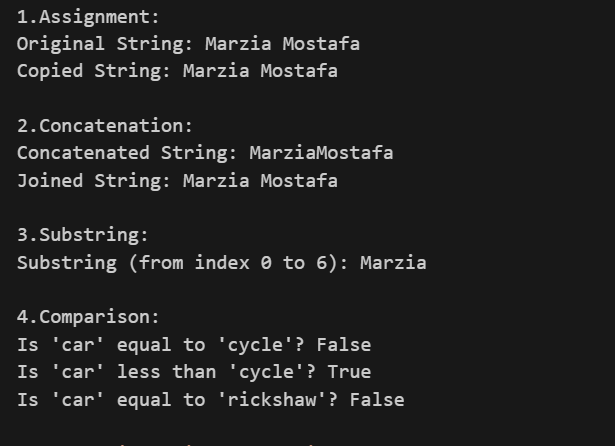
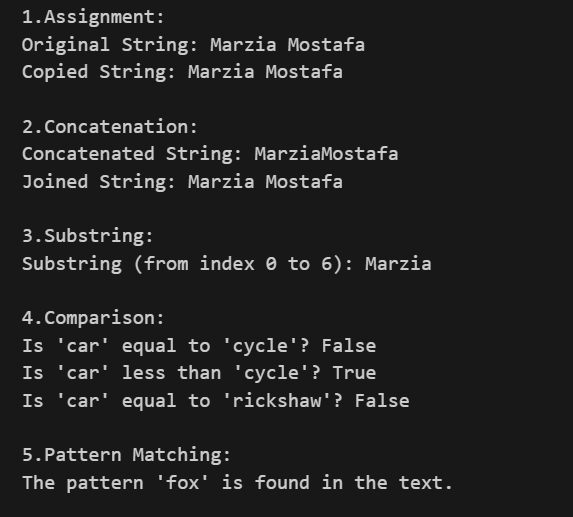
Question 2 updated

Changed region(s): [[0.0297, 0.2332, 0.7714, 0.787], [0.0297, 0.8161, 0.7714, 0.9619], [0.0297, 0.0, 0.6527, 0.204]]

diff --git a/string-op.py b/string-op.py
@@ -33,3 +33,11 @@ print("\n4.Comparison:")
 print(f"Is '{string_a}' equal to '{string_b}'? {string_a == string_b}")
 print(f"Is '{string_a}' less than '{string_b}'? {string_a < string_b}")
 print(f"Is '{string_a}' equal to '{string_c}'? {string_a == string_c}")
+
+# Pattern Matching
+text = "The quick brown fox jumps over the lazy dog."
+pattern = "fox"
+
+print("\n5.Pattern Matching:")
+if pattern in text:
+    print(f"The pattern '{pattern}' is found in the text.")
